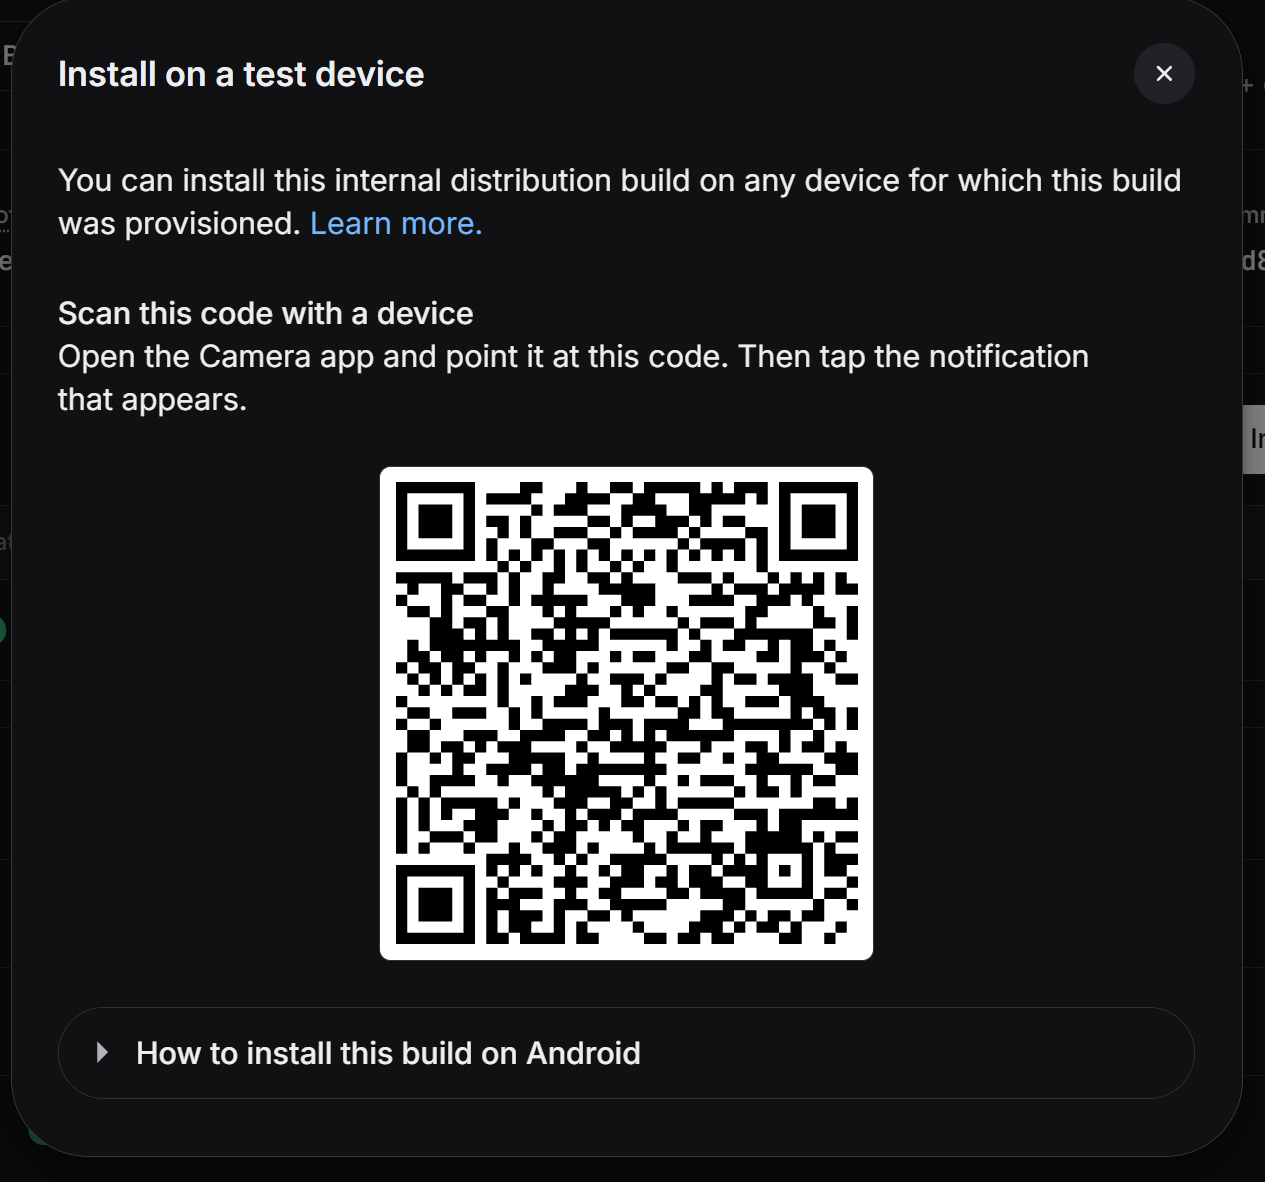
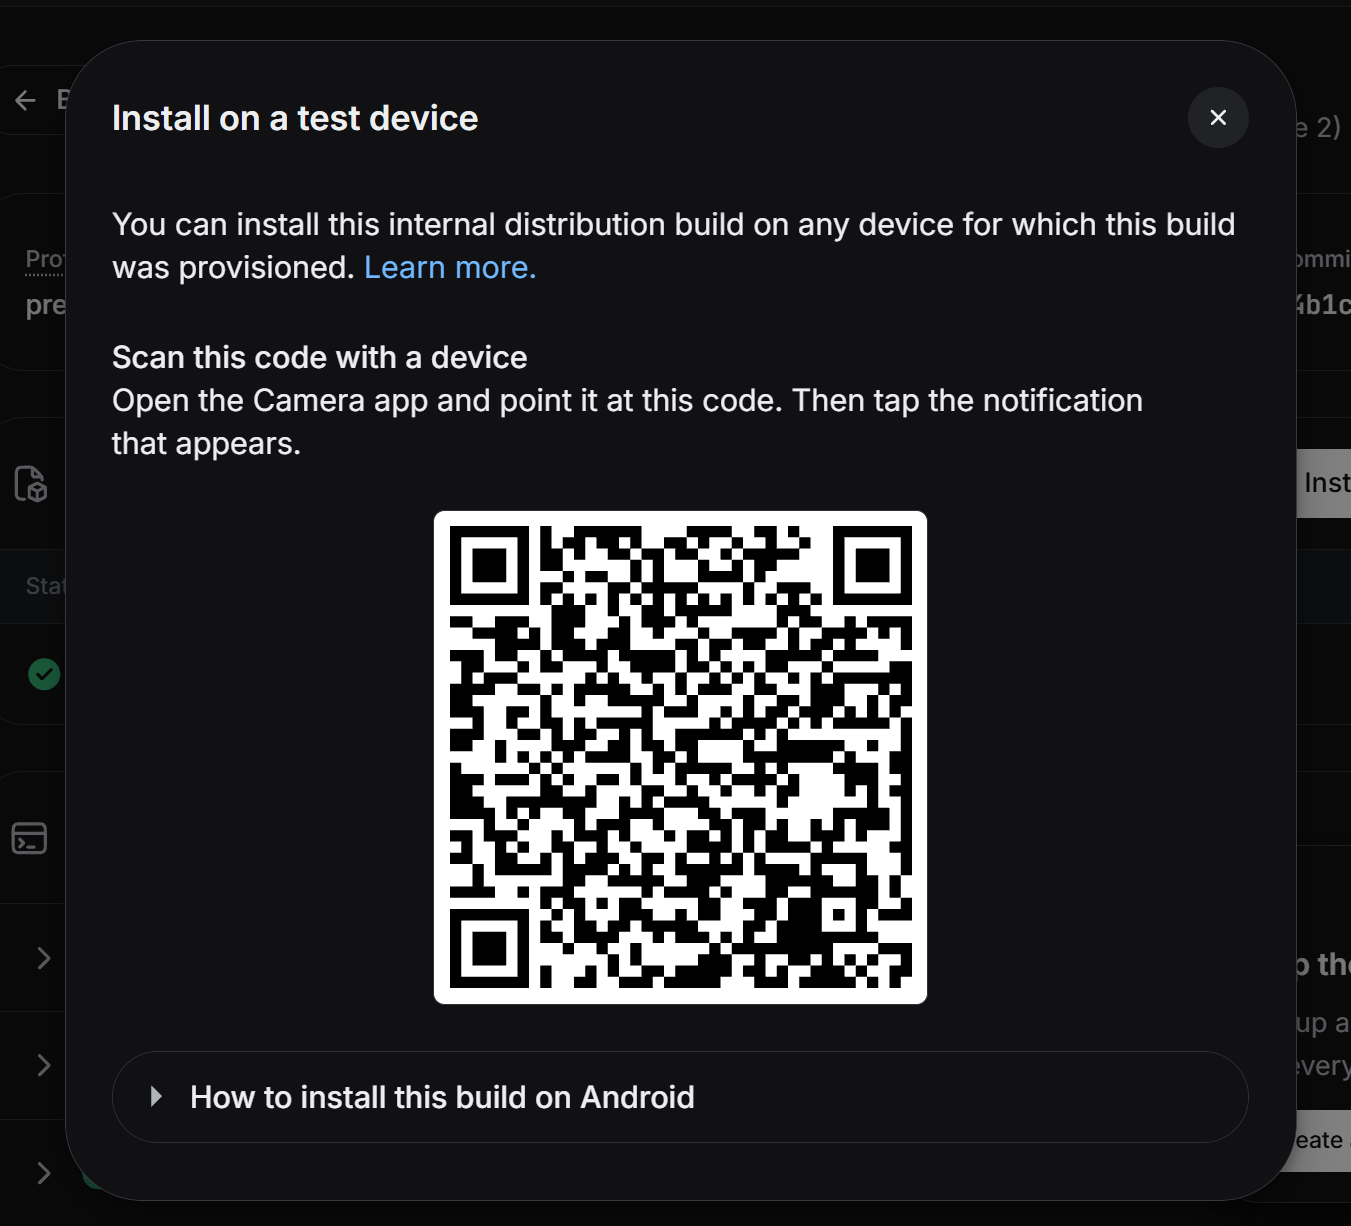
docs: atualiza link e QR code do build EAS no README

diff --git a/README.md b/README.md
@@ -21,7 +21,7 @@ Hospedado no Render: https://backend-consultas-sara.onrender.com
 Build gerado com EAS Build (perfil `preview`).
 
 - EAS projectId: `4473acbb-7de4-4153-acdc-517394b87f51`
-- Build: https://expo.dev/accounts/sara.barosa_23/projects/sistema-consultas-mobile/builds/fdec7efc-1983-41be-a641-46601a7bb357
+- Build: https://expo.dev/accounts/sara.barosa_23/projects/sistema-consultas-mobile/builds/8e3e7a07-b466-4359-af3e-5a6cda114ec9
 
 1. Escaneie o QR Code abaixo **ou** baixe pelo link do Expo.
 2. Permita instalação de fontes desconhecidas apenas para o instalador.
